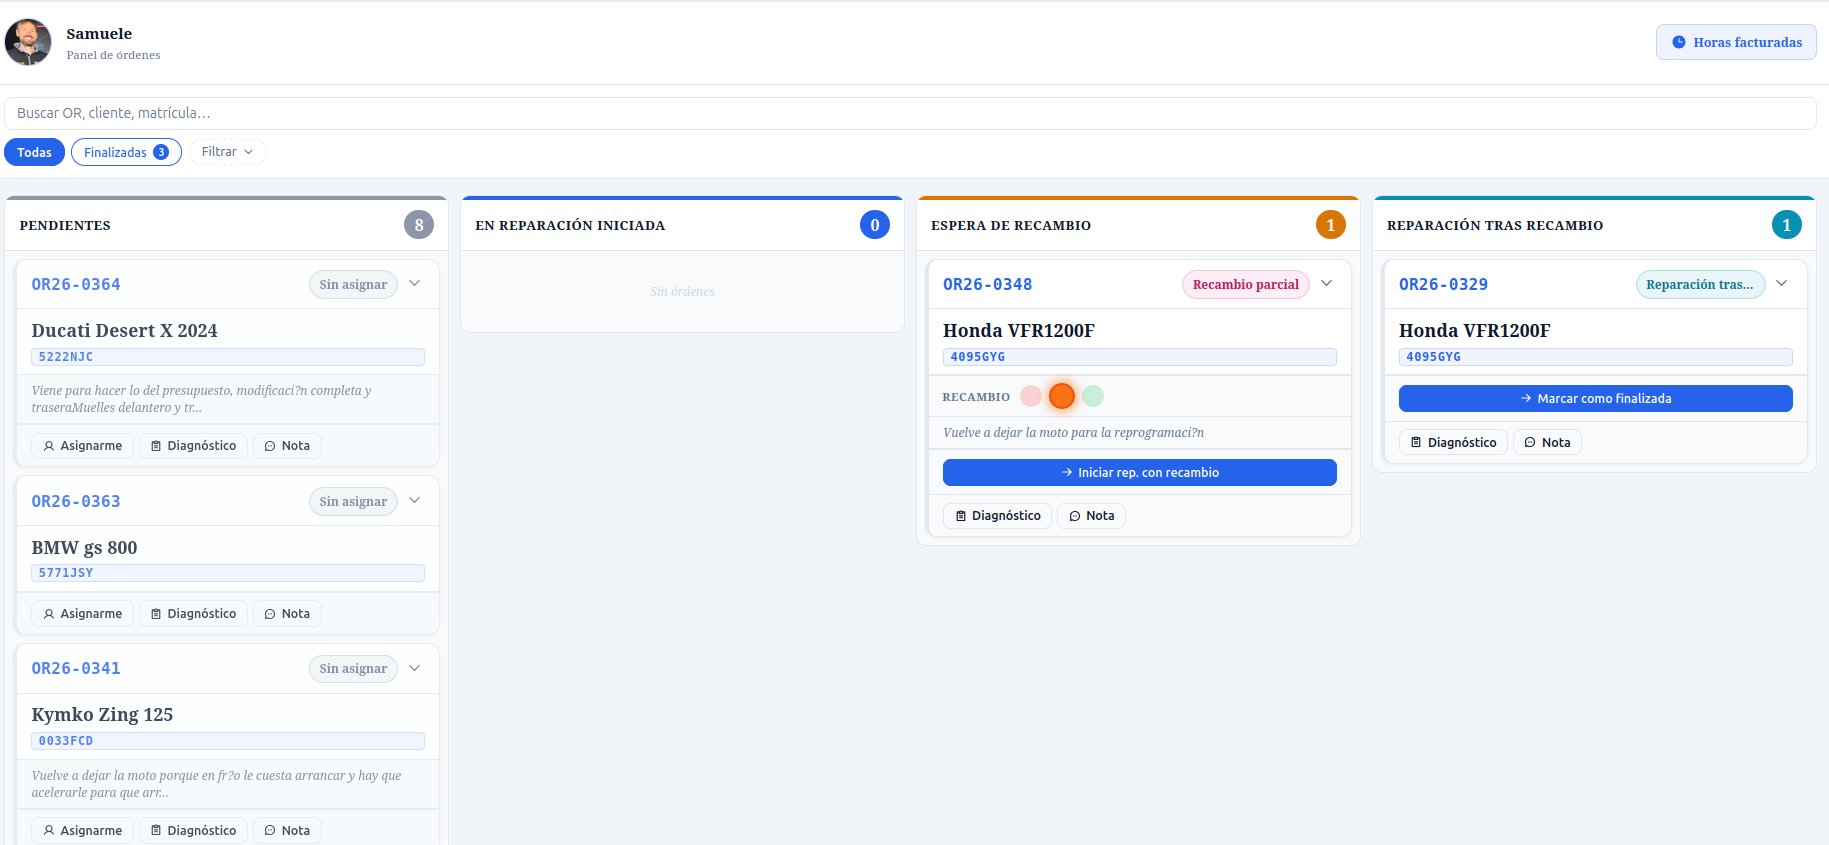
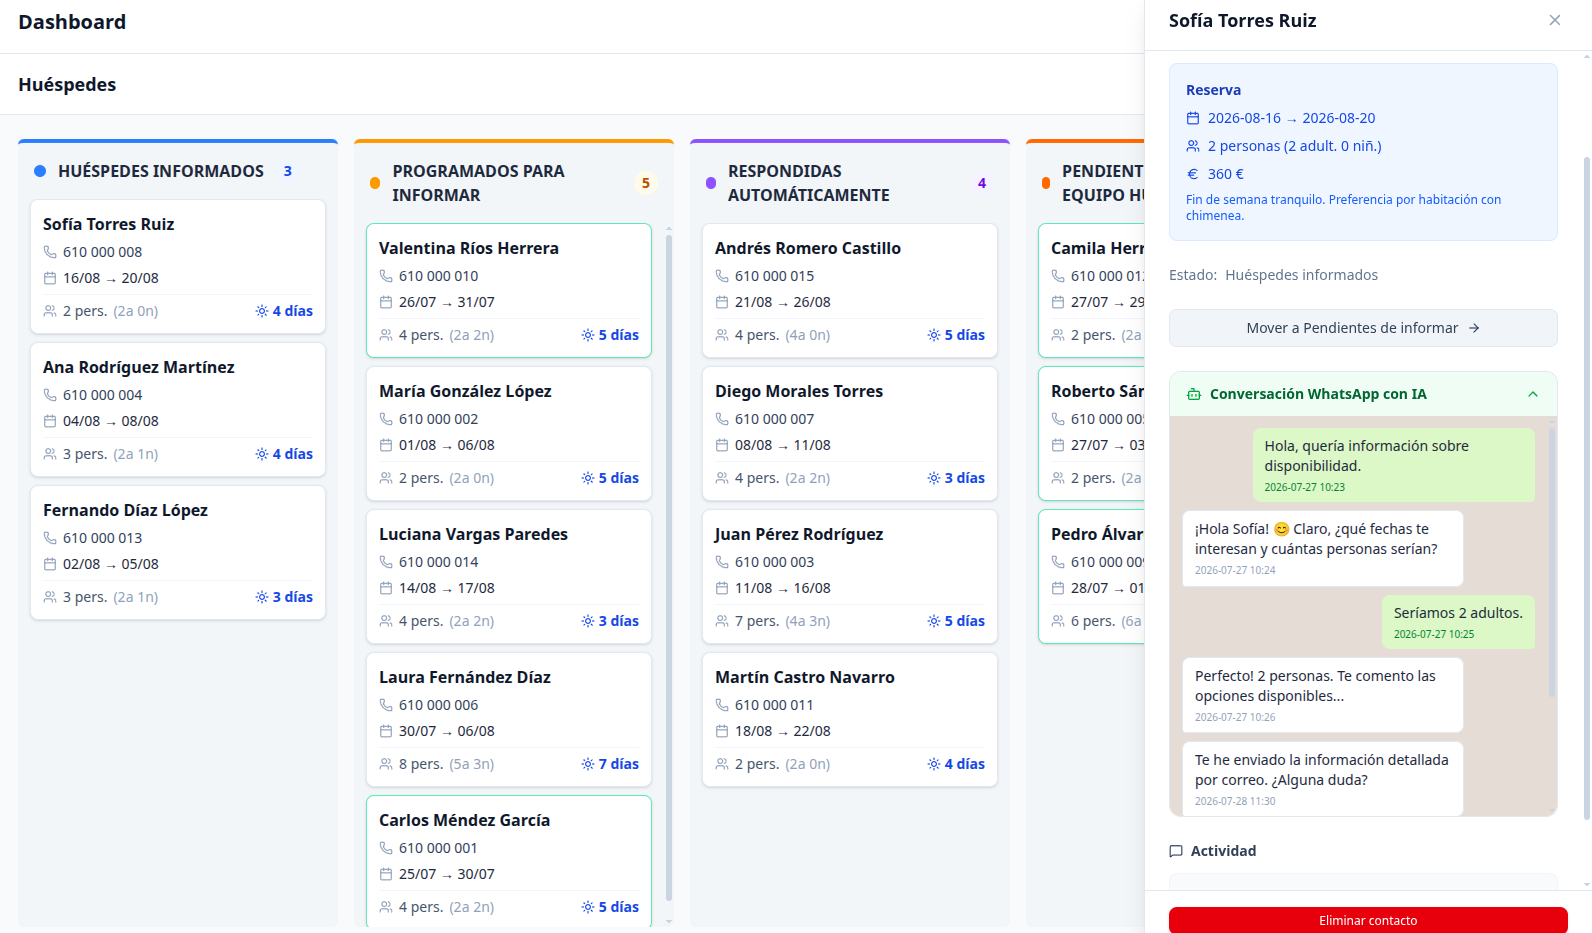
CRM showcase: dos ejemplos visibles, lightbox, movido al hero
- CrmShowcase ahora justo después del Hero (más protagonismo)
- Dos tarjetas: CRM casas rurales + CRM taller motos (stack vertical en móvil, side-by-side en desktop)
- Click en imagen abre lightbox a pantalla completa
- Imagen CRMTALLER.png añadida

diff --git a/frontend/src/components/CrmShowcase.jsx b/frontend/src/components/CrmShowcase.jsx
@@ -1,4 +1,5 @@
-import { CheckCircle2 } from "lucide-react";
+import { useState } from "react";
+import { ArrowRight, CheckCircle2, X } from "lucide-react";
 
 const highlights = [
   "Clientes, citas y mensajes en un solo panel",
@@ -6,7 +7,22 @@ const highlights = [
   "Informes de facturación mensual automatizados",
 ];
 
+const demos = [
+  {
+    img: "/images/CRM.png",
+    label: "CRM para casas rurales",
+    desc: "Gestión completa de reservas, huéspedes y check-ins automatizada con IA.",
+  },
+  {
+    img: "/images/CRMTALLER.png",
+    label: "CRM para taller de motos",
+    desc: "CRM más personalizado: seguimiento de reparaciones, clientes y presupuestos en tiempo real.",
+  },
+];
+
 export default function CrmShowcase() {
+  const [lightbox, setLightbox] = useState(null);
+
   return (
     <section className="crm-showcase">
       <div className="container">
@@ -14,15 +30,27 @@ export default function CrmShowcase() {
           Así se ve tu CRM en acción
         </h2>
         <p className="section-subtitle crm-showcase__subtitle">
-          Panel real implantado para un cliente — gestionando citas, clientes y mensajes en un solo sitio
+          Cada CRM se adapta a tu negocio — desde casas rurales hasta talleres. Todos con IA, panel único y precios cerrados.
         </p>
-        <div className="crm-showcase__frame">
-          <img
-            src="/images/CRMALOJAMIENTOS.png"
-            alt="Dashboard del CRM implantado — panel de gestión de clientes y citas"
-            className="crm-showcase__img"
-          />
+
+        <div className="crm-showcase__scroll">
+          {demos.map((demo) => (
+            <div key={demo.label} className="crm-showcase__card">
+              <div className="crm-showcase__frame" onClick={() => setLightbox(demo)}>
+                <img
+                  src={demo.img}
+                  alt={demo.desc}
+                  className="crm-showcase__img"
+                />
+              </div>
+              <div className="crm-showcase__card-body">
+                <h3 className="crm-showcase__card-label">{demo.label}</h3>
+                <p className="crm-showcase__card-desc">{demo.desc}</p>
+              </div>
+            </div>
+          ))}
         </div>
+
         <ul className="crm-showcase__highlights">
           {highlights.map((h) => (
             <li key={h}>
@@ -31,7 +59,26 @@ export default function CrmShowcase() {
             </li>
           ))}
         </ul>
+
+        <a href={`https://wa.me/34722439479?text=${encodeURIComponent("Hola, quiero ver una demo del CRM para mi negocio.")}`} target="_blank" rel="noreferrer" className="btn btn--primary btn--wa crm-showcase__cta">
+          <ArrowRight size={18} strokeWidth={2.5} />
+          Quiero ver mi CRM personalizado
+        </a>
       </div>
+
+      {lightbox && (
+        <div className="crm-showcase__lightbox" onClick={() => setLightbox(null)}>
+          <button className="crm-showcase__lightbox-close" onClick={() => setLightbox(null)}>
+            <X size={28} strokeWidth={2.5} />
+          </button>
+          <img
+            src={lightbox.img}
+            alt={lightbox.desc}
+            className="crm-showcase__lightbox-img"
+            onClick={(e) => e.stopPropagation()}
+          />
+        </div>
+      )}
     </section>
   );
 }

diff --git a/frontend/src/styles/_sections.scss b/frontend/src/styles/_sections.scss
@@ -544,7 +544,7 @@
 
 // CRM Showcase
 .crm-showcase {
-  padding: 5rem 0 5rem;
+  padding: 6rem 0;
   text-align: center;
   background: linear-gradient(180deg, $surface 0%, $surface-2 100%);
   border-block: 1px solid $border;
@@ -555,50 +555,90 @@
     position: absolute;
     top: 0; left: 50%;
     translate: -50% 0;
-    width: 80px;
-    height: 4px;
+    width: 120px;
+    height: 5px;
     border-radius: 0 0 4px 4px;
     background: $accent;
   }
 }
 
 .crm-showcase__title {
-  font-size: 2rem;
+  font-size: 2.4rem;
   margin-bottom: 0.75rem;
+  max-width: 700px;
+  margin-inline: auto;
 }
 
 .crm-showcase__subtitle {
-  margin-bottom: 1.5rem;
-  font-size: 1.05rem;
+  margin-bottom: 2.5rem;
+  font-size: 1.1rem;
+  max-width: 600px;
+  margin-inline: auto;
+}
+
+.crm-showcase__scroll {
+  display: flex;
+  flex-direction: column;
+  gap: 2.5rem;
+
+  @media (min-width: 900px) {
+    flex-direction: row;
+  }
+}
+
+.crm-showcase__card {
+  flex: 1;
+  text-align: left;
+  min-width: 0;
 }
 
 .crm-showcase__frame {
-  max-width: 1400px;
-  margin: 0 auto;
-  border-radius: 16px;
+  width: 100%;
+  border-radius: 12px;
   overflow: hidden;
   border: 1px solid $border;
-  box-shadow: 0 16px 48px rgba(0, 0, 0, 0.12);
+  box-shadow: 0 12px 40px rgba(0, 0, 0, 0.15);
   background: $surface;
-  transition: box-shadow 0.3s;
+  transition: box-shadow 0.3s, transform 0.3s;
 
   &:hover {
-    box-shadow: 0 20px 56px rgba(0, 0, 0, 0.18);
+    box-shadow: 0 20px 56px rgba(0, 0, 0, 0.2);
+    transform: translateY(-4px);
   }
 }
 
 .crm-showcase__img {
   width: 100%;
   display: block;
-  transform: scale(1.15);
-  transform-origin: top center;
+  cursor: zoom-in;
+}
+
+.crm-showcase__img:hover {
+  cursor: zoom-in;
+}
+
+.crm-showcase__card-body {
+  padding: 1.25rem 0.5rem 0;
+}
+
+.crm-showcase__card-label {
+  font-size: 1.2rem;
+  font-weight: 700;
+  color: $text;
+  margin-bottom: 0.3rem;
+}
+
+.crm-showcase__card-desc {
+  font-size: 0.92rem;
+  color: $text-muted;
+  line-height: 1.5;
 }
 
 .crm-showcase__highlights {
   display: flex;
   justify-content: center;
   gap: 2rem;
-  margin-top: 2rem;
+  margin-top: 2.5rem;
   flex-wrap: wrap;
 
   li {
@@ -611,4 +651,48 @@
 
     svg { color: $accent; flex-shrink: 0; }
   }
+}
+
+.crm-showcase__cta {
+  margin-top: 2rem;
+  display: inline-flex;
+}
+
+.crm-showcase__lightbox {
+  position: fixed;
+  inset: 0;
+  z-index: 9999;
+  background: rgba(0, 0, 0, 0.85);
+  display: flex;
+  align-items: center;
+  justify-content: center;
+  padding: 2rem;
+  cursor: pointer;
+}
+
+.crm-showcase__lightbox-close {
+  position: absolute;
+  top: 1rem;
+  right: 1.5rem;
+  background: none;
+  border: none;
+  color: #fff;
+  cursor: pointer;
+  padding: 0.5rem;
+  line-height: 1;
+  opacity: 0.8;
+  transition: opacity 0.2s;
+
+  &:hover { opacity: 1; }
+}
+
+.crm-showcase__lightbox-img {
+  max-width: 95vw;
+  max-height: 90vh;
+  width: auto;
+  height: auto;
+  object-fit: contain;
+  border-radius: 8px;
+  box-shadow: 0 8px 40px rgba(0, 0, 0, 0.5);
+  cursor: default;
 }

diff --git a/frontend/src/pages/Home.jsx b/frontend/src/pages/Home.jsx
@@ -84,6 +84,9 @@ export default function Home() {
         </div>
       </section>
 
+      {/* ── CRM visual ── */}
+      <CrmShowcase />
+
       {/* ── Dolor ── */}
       <section className="pain-section">
         <div className="container container--narrow">
@@ -105,9 +108,6 @@ export default function Home() {
 
       {/* ── Testimonios ── */}
       <Testimonials />
-
-      {/* ── CRM visual ── */}
-      <CrmShowcase />
 
       {/* ── Por qué elegirme ── */}
       <WhyMe />
